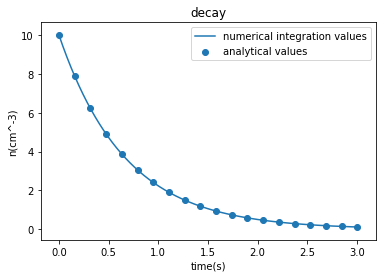
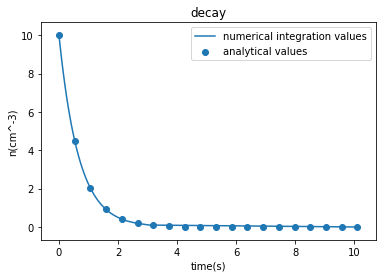
Add files via upload

diff --git a/prob6.py b/prob6.py
@@ -14,7 +14,7 @@ def dt(n):        #taking dt on RHS,LHS will be the function to be integrated
     return(-1/(ld*n))
 def t(n):
     return(romberg(dt,n0,n))       #integrating lhs from n0 to n
-number=np.arange(n0,.1,-.01)
+number=np.linspace(n0,4e-4,100)
 time=np.empty(len(number))
 for i in range(len(number)):
     time[i]=t(number[i])           #writing t as a function of n
